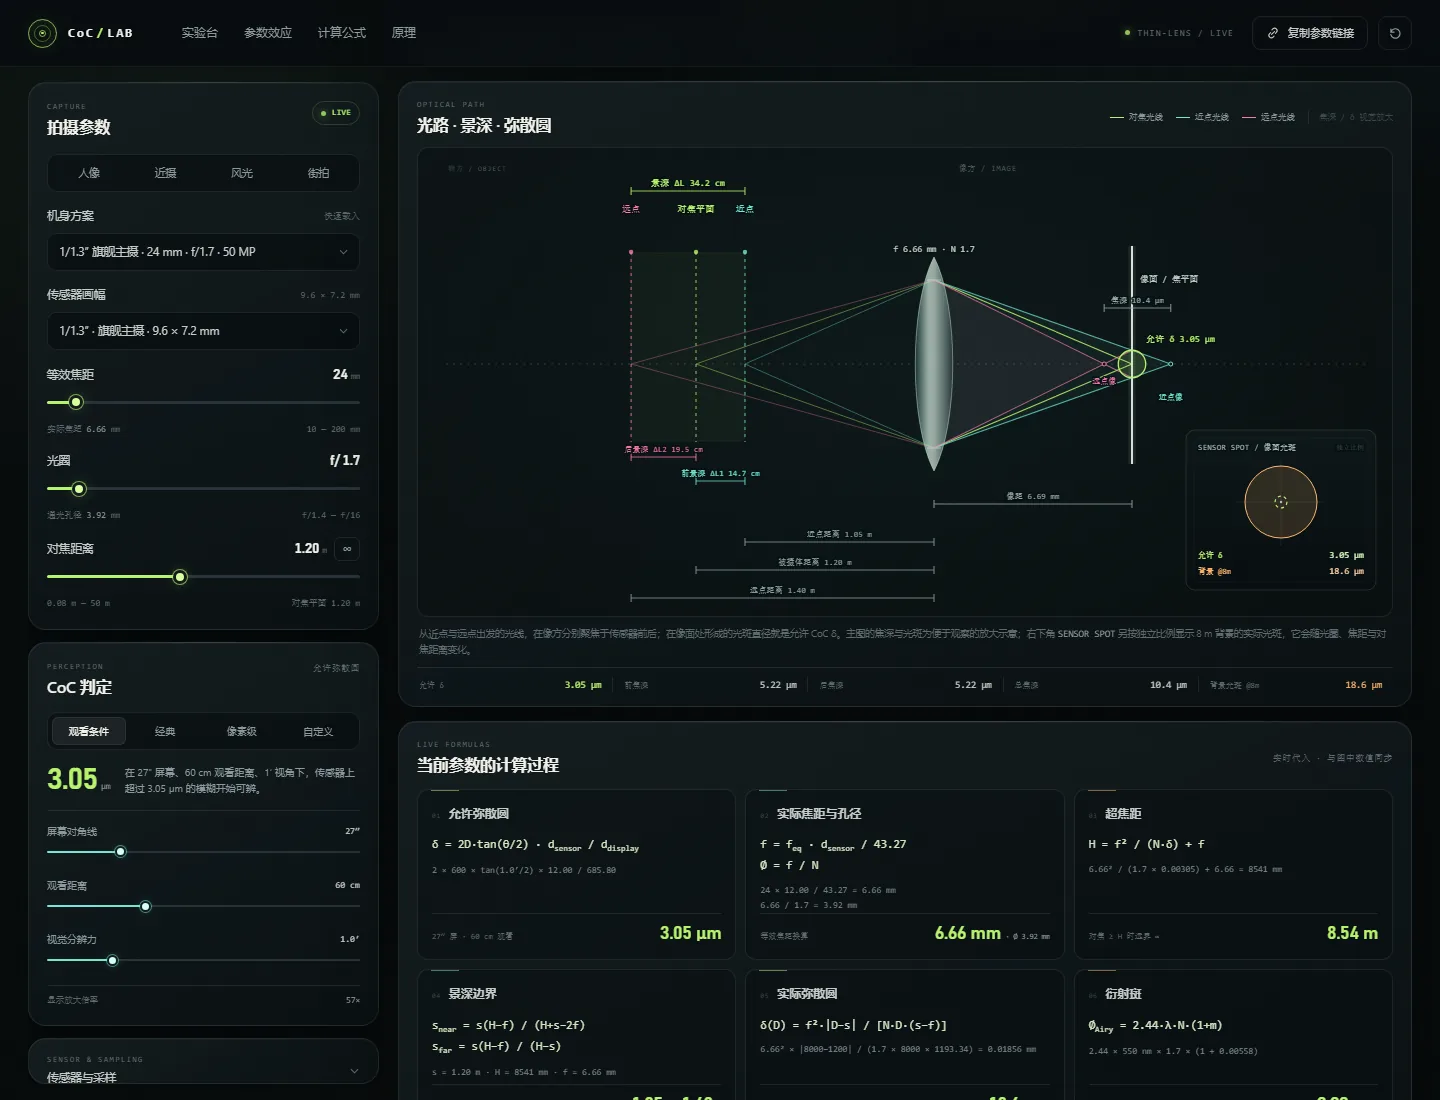
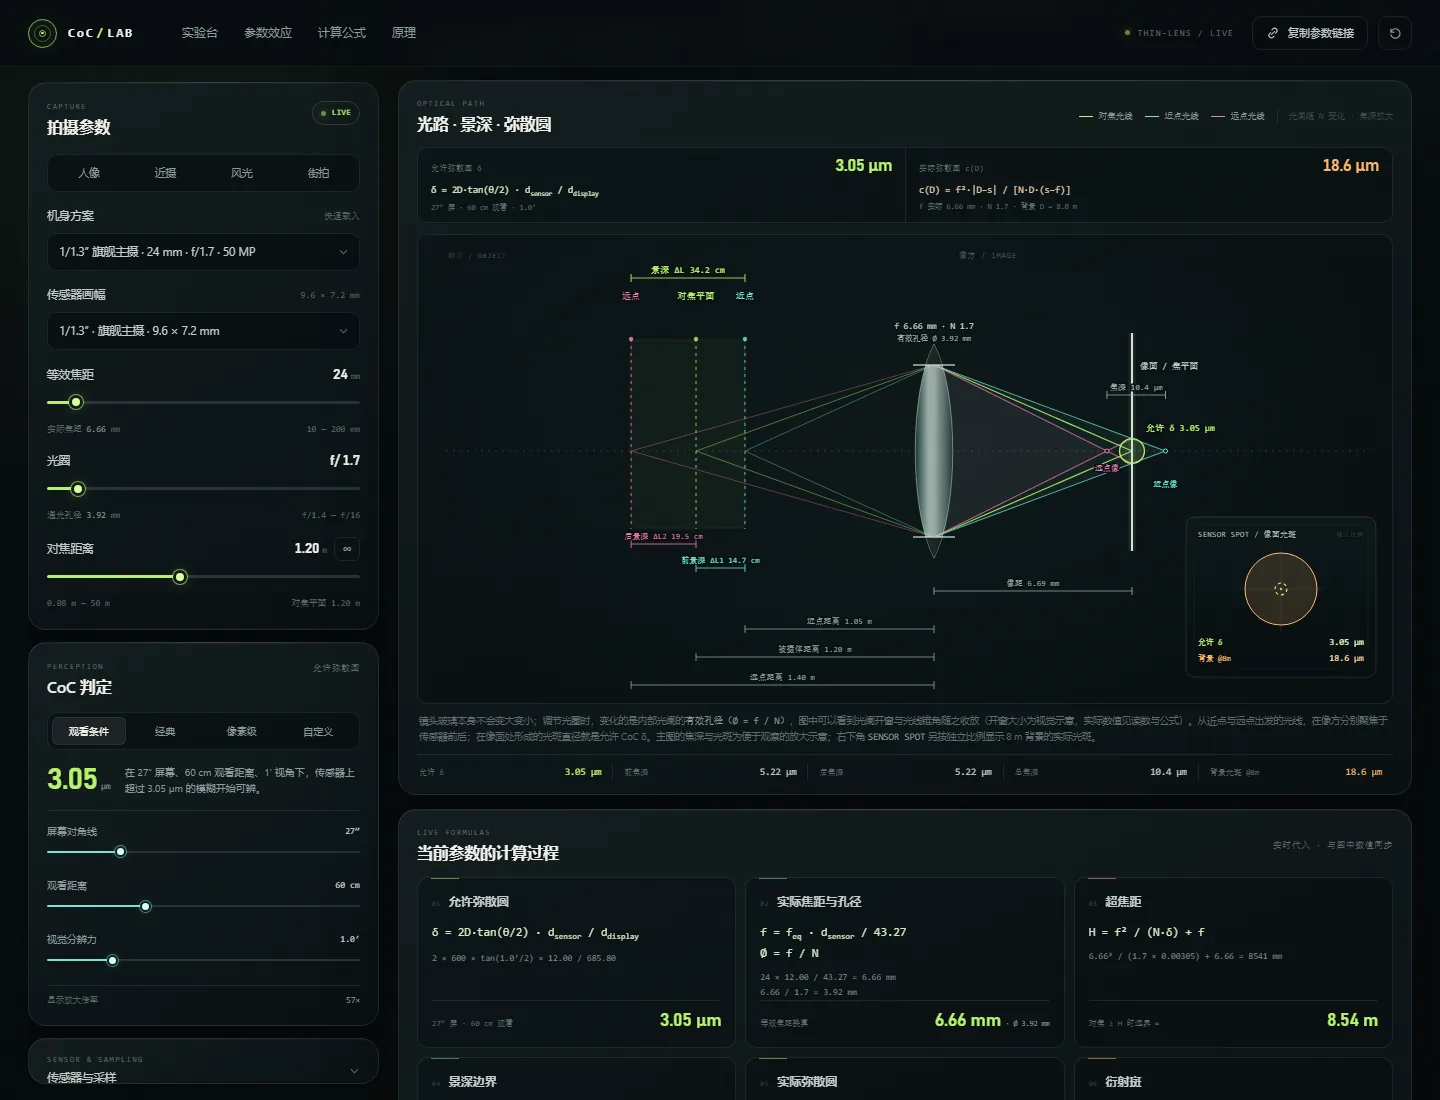
Move CoC formulas above optical diagram

diff --git a/public/js/app.js b/public/js/app.js
@@ -101,6 +101,12 @@ const refs = {
   rayDiagram: $('#rayDiagram'),
   rayScroll: $('#rayScroll'),
   rayScrollHint: $('#rayScrollHint'),
+  rayFormulaCoc: $('#rayFormulaCoc'),
+  rayFormulaBlur: $('#rayFormulaBlur'),
+  rayCocFormula: $('#rayCocFormula'),
+  rayActualFormula: $('#rayActualFormula'),
+  rayCocFormulaNote: $('#rayCocFormulaNote'),
+  rayActualFormulaNote: $('#rayActualFormulaNote'),
   rayCoc: $('#rayCoc'),
   rayFrontFocus: $('#rayFrontFocus'),
   rayBackFocus: $('#rayBackFocus'),
@@ -603,6 +609,38 @@ function formatPreviewBlur(um) {
   return formatMicro(um);
 }
 
+function renderRayFormula(calc) {
+  const mode = calc.state.cocMode;
+  let formula = '';
+  let note = '';
+
+  if (mode === 'human') {
+    formula =
+      'δ = 2D·tan(θ/2) · d<sub>sensor</sub> / d<sub>display</sub>';
+    note = `${calc.state.displayInches}″ 屏 · ${calc.state.viewingDistanceCm} cm 观看 · ${calc.state.acuityArcmin.toFixed(1)}′`;
+  } else if (mode === 'classic') {
+    formula = 'δ = d<sub>sensor</sub> / 1500';
+    note = '经典 1/1500 对角线经验值';
+  } else if (mode === 'pixel') {
+    formula = 'δ = k · p';
+    note = `k = ${calc.state.pixelK} · p = ${(calc.pixelPitchMm * 1000).toFixed(2)} µm`;
+  } else {
+    formula = 'δ = δ<sub>input</sub>';
+    note = `手动画定 ${calc.state.customCocUm.toFixed(1)} µm`;
+  }
+
+  const actualFormula = calc.focusInfinity
+    ? 'c(D) = f² / (N·D)'
+    : 'c(D) = f²·|D−s| / [N·D·(s−f)]';
+
+  refs.rayCocFormula.innerHTML = formula;
+  refs.rayActualFormula.innerHTML = actualFormula;
+  refs.rayCocFormulaNote.textContent = note;
+  refs.rayActualFormulaNote.textContent = `f 实际 ${calc.focalMm.toFixed(2)} mm · N ${calc.aperture} · 背景 D = ${calc.backgroundDistance.toFixed(1)} m`;
+  refs.rayFormulaCoc.textContent = formatMicro(calc.cocThresholdUm);
+  refs.rayFormulaBlur.textContent = formatMicro(calc.backgroundBlurUm);
+}
+
 function renderRayReadout(calc) {
   refs.rayCoc.textContent = formatMicro(calc.cocThresholdUm);
   refs.rayFrontFocus.textContent = formatMicro(calc.frontFocusUm);
@@ -1022,6 +1060,7 @@ function render() {
   renderControlReadouts(calc);
   renderMetrics(calc);
   renderPreview(calc);
+  renderRayFormula(calc);
   renderRayReadout(calc);
   renderDepth(calc);
   renderReadouts(calc);

diff --git a/public/css/styles.css b/public/css/styles.css
@@ -1803,6 +1803,86 @@ svg {
   max-width: none;
 }
 
+.ray-formula-strip {
+  display: grid;
+  grid-template-columns: 1fr 1fr;
+  gap: 0;
+  margin-top: 12px;
+  overflow: hidden;
+  border: 1px solid var(--line);
+  border-radius: 10px;
+  background: rgba(5, 11, 12, 0.45);
+}
+
+.ray-formula-cell {
+  min-width: 0;
+  padding: 10px 13px 9px;
+}
+
+.ray-formula-cell + .ray-formula-cell {
+  border-left: 1px solid var(--line);
+}
+
+.ray-formula-head {
+  display: flex;
+  align-items: baseline;
+  justify-content: space-between;
+  gap: 10px;
+}
+
+.ray-formula-head span {
+  font-family: var(--font-mono);
+  font-size: 8px;
+  letter-spacing: 0.04em;
+  color: var(--dim);
+  white-space: nowrap;
+}
+
+.ray-formula-head b {
+  font-family: var(--font-numeric);
+  font-size: 17px;
+  font-weight: 500;
+  line-height: 1;
+  letter-spacing: -0.03em;
+  color: var(--lime);
+  font-variant-numeric: tabular-nums;
+  white-space: nowrap;
+}
+
+.ray-formula-cell:last-child .ray-formula-head b {
+  color: var(--amber);
+}
+
+.ray-formula-exp {
+  display: block;
+  margin-top: 7px;
+  color: #d4e6c1;
+  font-family: var(--font-mono);
+  font-size: 9.5px;
+  line-height: 1.55;
+  overflow-wrap: anywhere;
+}
+
+.ray-formula-cell:last-child .ray-formula-exp {
+  color: #e6c7a8;
+}
+
+.ray-formula-exp sub {
+  font-size: 0.7em;
+}
+
+.ray-formula-note {
+  display: block;
+  margin-top: 3px;
+  overflow: hidden;
+  color: var(--dim);
+  font-family: var(--font-mono);
+  font-size: 7.5px;
+  line-height: 1.5;
+  text-overflow: ellipsis;
+  white-space: nowrap;
+}
+
 .ray-foot {
   margin: 9px 2px 0;
   color: var(--dim);
@@ -3088,6 +3168,15 @@ svg {
 
   .calc-card {
     min-height: 0;
+  }
+
+  .ray-formula-strip {
+    grid-template-columns: 1fr;
+  }
+
+  .ray-formula-cell + .ray-formula-cell {
+    border-top: 1px solid var(--line);
+    border-left: 0;
   }
 
   .ray-readout {

diff --git a/public/index.html b/public/index.html
@@ -696,6 +696,32 @@
                   <span class="ray-scale">光阑随 N 变化 · 焦深放大</span>
                 </div>
               </div>
+              <div class="ray-formula-strip" aria-label="弥散圆计算公式">
+                <div class="ray-formula-cell">
+                  <div class="ray-formula-head">
+                    <span>允许弥散圆 δ</span>
+                    <b id="rayFormulaCoc">3.05 µm</b>
+                  </div>
+                  <code class="ray-formula-exp" id="rayCocFormula"
+                    >δ = 2D·tan(θ/2) · d<sub>sensor</sub> / d<sub>display</sub></code
+                  >
+                  <small class="ray-formula-note" id="rayCocFormulaNote"
+                    >27″ 屏 · 60 cm 观看 · 1.0′</small
+                  >
+                </div>
+                <div class="ray-formula-cell">
+                  <div class="ray-formula-head">
+                    <span>实际弥散圆 c(D)</span>
+                    <b id="rayFormulaBlur">18.6 µm</b>
+                  </div>
+                  <code class="ray-formula-exp" id="rayActualFormula"
+                    >c(D) = f²·|D−s| / [N·D·(s−f)]</code
+                  >
+                  <small class="ray-formula-note" id="rayActualFormulaNote"
+                    >实际焦距 f · 光圈 N · 背景距离 D</small
+                  >
+                </div>
+              </div>
               <div class="ray-scroll-hint" id="rayScrollHint">← 横向滑动查看完整光路 →</div>
               <div class="ray-scroll" id="rayScroll">
                 <svg id="rayDiagram" role="img"></svg>
